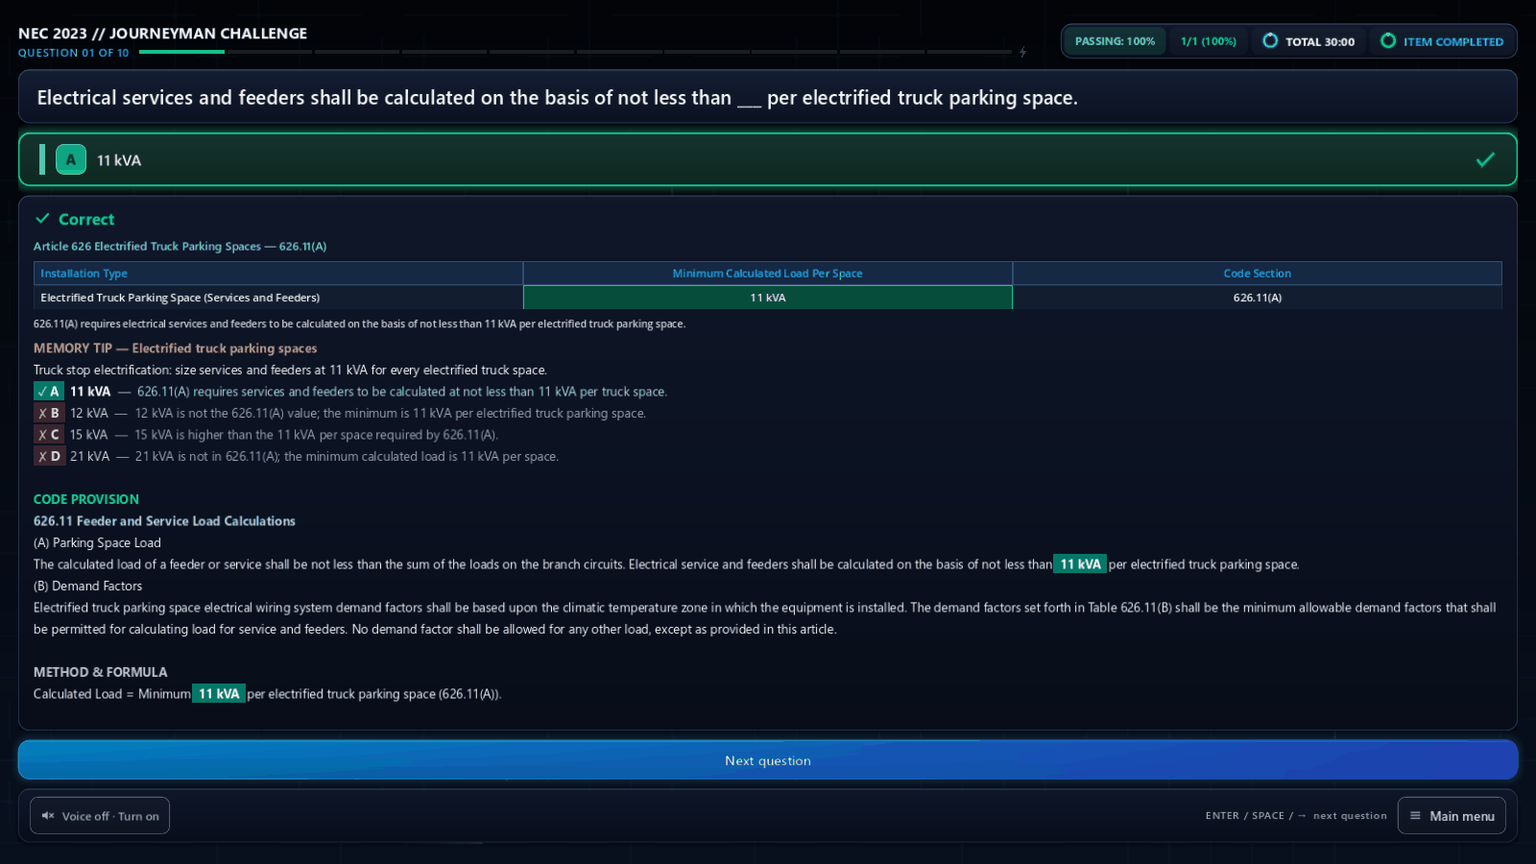
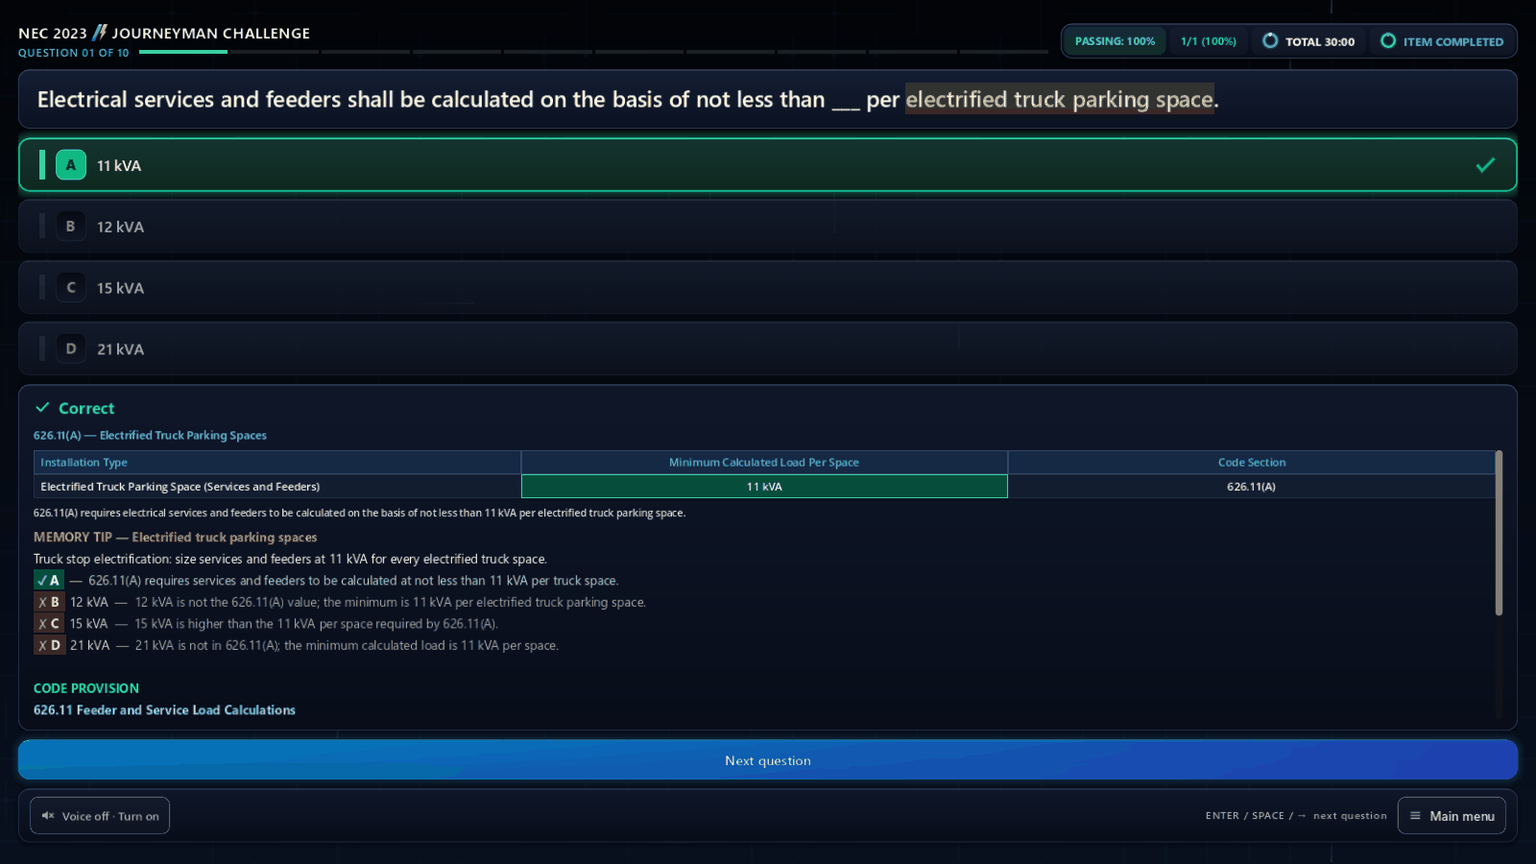
1.0.6: tables hide section numbers before answering; new README screenshots
- Reference tables: before answering, a cell that names a section or table
  number reads "?" (8 questions, e.g. Code Section 626.11(A)); after
  answering it shows as before. test_no_leak sweeps every table.
- README: banner and Slash-Bolt logo at the top, every screenshot retaken
  (menu, question before answering, answered, figure, Full Exam, math
  trainer, Show steps calculator, report, settings, five phone shots),
  answer GIFs re-recorded, hero without "NFPA 70", features and test counts
  brought up to date, DIAGRAM_STYLE.md linked.
- snap_showcase.gd captures the new shots; make_showcase.py uses the mark.
- HUD: streak_label renamed tally_label.
- Docs: SFX_PLAN, KNOWN_ISSUES, DIAGRAMS_AUDIT, tests README touched up.
- Version 1.0.6 (Android code 7); CHANGELOG [1.0.6].

diff --git a/tools/visual/make_showcase.py b/tools/visual/make_showcase.py
@@ -5,7 +5,7 @@
     python tools/visual/make_showcase.py
 
 Reads .audit_tmp/shots/showcase/, writes docs/media/. The answer GIFs are made
-separately: snap_motion.gd -- --answers, then ffmpeg (crop 1280x340, 30 fps).
+separately: snap_motion.gd -- --answers, then ffmpeg (crop 1280x420, 30 fps).
 """
 import json
 from pathlib import Path
@@ -16,6 +16,7 @@ ROOT = Path(__file__).resolve().parents[2]
 SHOTS = ROOT / ".audit_tmp" / "shots" / "showcase"
 OUT = ROOT / "docs" / "media"
 ICON = ROOT / "assets" / "branding" / "icon.png"
+MARK = ROOT / "assets" / "branding" / "mark.png"
 FONTS = Path("C:/Windows/Fonts")
 
 BG_TOP = (2, 4, 8)
@@ -27,14 +28,19 @@ HAIRLINE = (30, 58, 88)
 
 STILLS = {
     "desktop-menu.png": "desk_01_menu.png",
-    "desktop-table-question.png": "desk_02_table_question.png",
+    "desktop-table-question.png": "desk_02b_keyword_pinned.png",
     "desktop-correct.png": "desk_03_table_correct.png",
     "desktop-wrong.png": "desk_06_wrong.png",
     "desktop-diagram.png": "desk_07_diagram_question.png",
     "desktop-simulator.png": "desk_08_simulator.png",
     "desktop-results.png": "desk_09_results.png",
+    "desktop-settings.png": "desk_10_settings.png",
+    "desktop-math-trainer.png": "desk_11_math_trainer.png",
+    "desktop-math-steps.png": "desk_13_math_steps.png",
     "mobile-menu.png": "mob_01_menu.png",
-    "mobile-question.png": "mob_02_table_question.png",
+    "mobile-question.png": "mob_02b_keyword_pinned.png",
+    "mobile-correct.png": "mob_03_table_correct.png",
+    "mobile-math-trainer.png": "mob_11_math_trainer.png",
     "mobile-results.png": "mob_09_results.png",
 }
 
@@ -105,8 +111,11 @@ def hero() -> Image.Image:
     canvas.alpha_composite(icon, (80, 150))
     facts = hero_facts()
     d = ImageDraw.Draw(canvas)
-    d.text((82, 330), f"NFPA 70  •  {facts['edition']}  •  JOURNEYMAN EXAM PREP", font=font("seguisb.ttf", 18), fill=SKY_400)
-    d.text((78, 362), f"{facts['edition']} //", font=font("segoeuib.ttf", 58), fill=(255, 255, 255))
+    d.text((82, 330), f"{facts['edition']}  •  JOURNEYMAN EXAM PREP", font=font("seguisb.ttf", 18), fill=SKY_400)
+    title_font = font("segoeuib.ttf", 58)
+    d.text((78, 362), facts["edition"], font=title_font, fill=(255, 255, 255))
+    mark = Image.open(MARK).convert("RGBA").resize((70, 70), Image.LANCZOS)
+    canvas.alpha_composite(mark, (round(78 + d.textlength(facts["edition"] + " ", font=title_font)), 368))
     d.text((78, 432), "Journeyman", font=font("segoeuib.ttf", 58), fill=(255, 255, 255))
     d.text((78, 502), "Challenge", font=font("segoeuib.ttf", 58), fill=SKY_400)
     body = font("segoeui.ttf", 23)

diff --git a/README.md b/README.md
@@ -1,10 +1,10 @@
 <p align="center">
-  <img width="200" alt="NEC 2023 Journeyman Challenge logo" src="assets/branding/icon.png" />
+  <img src="docs/media/banner.png" alt="NEC 2023 Journeyman Challenge: the Slash-Bolt logo, 598 exam-style questions, a lesson after every answer" width="100%">
 </p>
-<h1 align="center">NEC 2023 Journeyman Challenge</h1>
+<h1 align="center"><img src="assets/branding/icon.png" alt="" width="40" align="center"> NEC 2023 Journeyman Challenge</h1>
 <p align="center">A study app for the <strong>NEC 2023</strong> <strong>journeyman electrician</strong> exam: timed drills, a full exam simulator built on the <strong>Nebraska</strong> exam blueprint, and a lesson after every answer.</p>
 <p align="center">
-  <img src="https://img.shields.io/badge/version-1.0.5-38bdf8" alt="Version 1.0.5">
+  <img src="https://img.shields.io/badge/version-1.0.6-38bdf8" alt="Version 1.0.6">
   <img src="https://img.shields.io/badge/platform-Windows%20x64%20%7C%20Android-0b1221" alt="Platform: Windows x64 | Android">
   <img src="https://img.shields.io/badge/engine-Godot%204.7-478cbf?logo=godotengine&logoColor=white" alt="Engine: Godot 4.7">
   <img src="https://img.shields.io/badge/NEC-2023-f59e0b" alt="NEC 2023">
@@ -19,15 +19,16 @@ Get the latest build from the
 
 | File | Best for | Requirement |
 |---|---|---|
-| [`NEC2023JourneymanChallenge_v1.0.5_Windows.zip`](https://github.com/Gosolceser1/nec-2023-journeyman-challenge/releases/tag/v1.0.5) | Windows PCs | Windows 10/11, 64-bit; no install |
-| [`NEC2023JourneymanChallenge_v1.0.5_Android.apk`](https://github.com/Gosolceser1/nec-2023-journeyman-challenge/releases/tag/v1.0.5) | Android phones and tablets | Allow installs from unknown sources |
+| [`NEC2023JourneymanChallenge_v1.0.6_Windows.zip`](https://github.com/Gosolceser1/nec-2023-journeyman-challenge/releases/tag/v1.0.6) | Windows PCs | Windows 10/11, 64-bit; no install |
+| [`NEC2023JourneymanChallenge_v1.0.6_Android.apk`](https://github.com/Gosolceser1/nec-2023-journeyman-challenge/releases/tag/v1.0.6) | Android phones and tablets | Allow installs from unknown sources |
 
 **Windows:** unzip and run `NEC 2023 Journeyman Challenge.exe`. The app is not
 code-signed, so the first time you open it Windows SmartScreen may show
 "Windows protected your PC": click **More info**, then **Run anyway**.
 
 **Android:** open the APK on the device and allow installs from unknown sources
-if Android asks.
+if Android asks. A new version installs over the old one and keeps your
+progress.
 
 `SHA256SUMS.txt` on the release page lets you check the downloads.
 
@@ -38,6 +39,13 @@ if Android asks.
 - **598 questions:** 594 NEC 2023 questions from 16 practice exams plus 4
   Nebraska State Law questions. Every answer shows the NEC reference, a short
   lesson, a memory tip, why each wrong choice is wrong, and the code provision.
+- **You do the looking up:** the exam is open book, so before you answer the
+  screen shows only the question, one "where to look" line (NEC 2023 ›
+  Chapter › Article), one reference (a table or a figure) and the choices.
+  Nothing on it names the exact section or gives the answer away; the
+  method, the formula and the table notes wait until you answer. After you
+  answer, all four choices stay listed (yours, the right one, the others
+  dimmed) and the explanation says each thing once.
 - **A menu in five tabs:** Home (continue where you left off, a quick
   drill, your weakest area, review missed questions and the Full Journeyman
   Exam), Exams (every practice exam with the questions you have seen and your
@@ -51,20 +59,22 @@ if Android asks.
   readiness.
 - **Weakest-area drill:** 10 questions from the subject area that needs it
   most, picked from your recent answers.
-- **Code-book keywords:** the exam is open book, so before you answer, the
-  words to look up are highlighted in the question. Hover a highlighted word
-  on desktop, or tap it on a phone, and the INDEX line names its Index entry
-  and article; a click or tap keeps it there. Keywords never contain the answer, and
-  the Full Journeyman Exam shows none, like the real test.
+- **Code-book keywords:** before you answer, the words to look up are
+  highlighted in the question. Hover a highlighted word on desktop, or tap it
+  on a phone, and the INDEX line shows what to look up the way the printed
+  Index lists it ("Disconnecting means › services"), never a section number;
+  a click or tap keeps it there. Keywords never contain the answer, and the
+  Full Journeyman Exam shows none, like the real test.
 - **Step-by-step math:** after you answer an exam calculation question (70 of
   them), "Show steps" walks through it one idea at a time: the formula, the
   numbers, the table row, the math, the exact calculator keys, then the
-  answer. In the next release, "Try it on the calculator" lights up each key
-  in turn on an on-screen calculator.
+  answer. "Try it on the calculator" lights up each key in turn on an
+  on-screen calculator.
 - **Math trainer:** endless practice problems in 58 types over 12 topics
   (Ohm's law to motors and dwelling loads) at three levels, with a hint, the
-  steps and a "practice my weak spots" mix. From the next release you answer
-  on a basic calculator like the one allowed in the exam room.
+  steps and a "practice my weak spots" mix. You answer on a basic calculator
+  like the one allowed in the exam room (memory, %, x², √, 1/x), and on a PC
+  the keyboard works too.
 - **Formula cards and table drills:** 17 picture cards (each letter
   explained, units, calculator keys, a worked example) and 17 timed NEC table
   lookup drills with a best run to beat. Math weak spots shows your accuracy
@@ -80,14 +90,17 @@ if Android asks.
   built in on Windows and Android with nothing extra to install (Windows also
   offers the British Ryan). Without a connection the recorded voice takes over.
 - **Reference tables and diagrams** right next to the question, with tables
-  laid out to fit the screen. 346 questions have an original study figure.
-  Figures are reviewed for anything that gives the answer away, and such a
-  spot stays under a "?" until you answer.
+  laid out to fit the screen. 346 questions have an original study figure,
+  drawn to look like the real equipment in one shared style
+  ([docs/DIAGRAM_STYLE.md](docs/DIAGRAM_STYLE.md)). Anything in a figure or
+  table that gives away the answer, a choice, or the section, table or Part
+  number stays under a "?" until you answer, and a test checks every one.
 - **Checked against NEC 2023:** every question's answer, code provision,
   lookup table and calculation was audited against the 2023 code, and all
   598 answers were checked again on 2026-09-30 (see [Accuracy](#accuracy)).
-- **Electrical answer animations and sounds** (with a Reduce motion option),
-  and keyboard shortcuts on desktop (A-D or 1-4, Enter for next).
+- **Electrical answer animations and sounds**, leveled so they stay pleasant
+  for hours, with a Reduce motion option that turns the animations off, and
+  keyboard shortcuts on desktop (A-D or 1-4, Enter for next).
 - **Works offline:** the questions, the voice and the sounds are all inside
   the app. Progress is saved on your device.
 
@@ -101,11 +114,11 @@ if Android asks.
   <tr>
     <td width="50%" align="center">
       <a href="docs/media/desktop-menu.png"><img src="docs/media/desktop-menu.png" alt="Main menu" width="100%"></a><br>
-      <sub>Main menu: exam readiness ring, timed drills, weakest-area drill, Nebraska State Law and the simulator</sub>
+      <sub>Home tab: exam readiness ring, continue, a quick drill, your weakest area, missed-question review and the Full Journeyman Exam</sub>
     </td>
     <td width="50%" align="center">
-      <a href="docs/media/desktop-table-question.png"><img src="docs/media/desktop-table-question.png" alt="Question with a lookup table" width="100%"></a><br>
-      <sub>A question with its lookup table (NEC 626.11, electrified truck parking)</sub>
+      <a href="docs/media/desktop-table-question.png"><img src="docs/media/desktop-table-question.png" alt="Question before answering, with a lookup table" width="100%"></a><br>
+      <sub>Before you answer: the article to open, the keyword's Index entry, and the table with the answer and the section left blank</sub>
     </td>
   </tr>
   <tr>
@@ -115,40 +128,62 @@ if Android asks.
     </td>
     <td width="50%" align="center">
       <a href="docs/media/desktop-wrong.png"><img src="docs/media/desktop-wrong.png" alt="Wrong answer" width="100%"></a><br>
-      <sub>Wrong: the right answer and the NEC table it comes from</sub>
+      <sub>Wrong: your pick in red, the right answer in green, and the figure with its labels revealed</sub>
     </td>
   </tr>
   <tr>
     <td width="50%" align="center">
       <a href="docs/media/desktop-diagram.png"><img src="docs/media/desktop-diagram.png" alt="Diagram question" width="100%"></a><br>
-      <sub>A diagram question (tap the figure to zoom)</sub>
+      <sub>A figure question (tap the figure to zoom)</sub>
     </td>
     <td width="50%" align="center">
-      <a href="docs/media/desktop-simulator.png"><img src="docs/media/desktop-simulator.png" alt="Full Journeyman Simulator in progress" width="100%"></a><br>
-      <sub>The Full Journeyman Simulator: 80 questions, 240 minutes</sub>
+      <a href="docs/media/desktop-simulator.png"><img src="docs/media/desktop-simulator.png" alt="Full Journeyman Exam in progress" width="100%"></a><br>
+      <sub>The Full Journeyman Exam: 80 questions, 240 minutes; the figure keeps its answer spots under "?"</sub>
     </td>
   </tr>
   <tr>
-    <td colspan="2" align="center">
-      <a href="docs/media/desktop-results.png"><img src="docs/media/desktop-results.png" alt="Examination report" width="50%"></a><br>
+    <td width="50%" align="center">
+      <a href="docs/media/desktop-math-trainer.png"><img src="docs/media/desktop-math-trainer.png" alt="Math trainer with its calculator" width="100%"></a><br>
+      <sub>Math trainer: work the problem on a basic exam-room calculator, then Check</sub>
+    </td>
+    <td width="50%" align="center">
+      <a href="docs/media/desktop-math-steps.png"><img src="docs/media/desktop-math-steps.png" alt="Show steps with Try it on the calculator" width="100%"></a><br>
+      <sub>Show steps: "Try it on the calculator" lights the next key to press</sub>
+    </td>
+  </tr>
+  <tr>
+    <td width="50%" align="center">
+      <a href="docs/media/desktop-results.png"><img src="docs/media/desktop-results.png" alt="Examination report" width="100%"></a><br>
       <sub>The report: score gauge, subject-area bars against the 75% line, pace per answer and study feedback</sub>
+    </td>
+    <td width="50%" align="center">
+      <a href="docs/media/desktop-settings.png"><img src="docs/media/desktop-settings.png" alt="Settings" width="100%"></a><br>
+      <sub>Settings: voice mode, sound level, Reduce motion and the keyword highlights</sub>
     </td>
   </tr>
 </table>
 
 <table>
   <tr>
-    <td width="33%" align="center">
+    <td width="20%" align="center">
       <a href="docs/media/mobile-menu.png"><img src="docs/media/mobile-menu.png" alt="Android main menu" width="100%"></a><br>
       <sub>Android: main menu</sub>
     </td>
-    <td width="33%" align="center">
-      <a href="docs/media/mobile-question.png"><img src="docs/media/mobile-question.png" alt="Android question with a lookup table" width="100%"></a><br>
-      <sub>Android: question with a lookup table</sub>
+    <td width="20%" align="center">
+      <a href="docs/media/mobile-question.png"><img src="docs/media/mobile-question.png" alt="Android question before answering" width="100%"></a><br>
+      <sub>Before answering, a keyword tapped</sub>
     </td>
-    <td width="33%" align="center">
+    <td width="20%" align="center">
+      <a href="docs/media/mobile-correct.png"><img src="docs/media/mobile-correct.png" alt="Android answered question" width="100%"></a><br>
+      <sub>After answering</sub>
+    </td>
+    <td width="20%" align="center">
+      <a href="docs/media/mobile-math-trainer.png"><img src="docs/media/mobile-math-trainer.png" alt="Android math trainer" width="100%"></a><br>
+      <sub>Math trainer</sub>
+    </td>
+    <td width="20%" align="center">
       <a href="docs/media/mobile-results.png"><img src="docs/media/mobile-results.png" alt="Android examination report" width="100%"></a><br>
-      <sub>Android: examination report</sub>
+      <sub>Examination report</sub>
     </td>
   </tr>
 </table>
@@ -239,7 +274,12 @@ python tools/pipeline/validate_question_bank.py --no-warn   # bank schema, spoil
 python tools/pipeline/check_requirements.py                 # every table/calc question keeps its table, formula and recomputed result
 ```
 
-`GODOT` and `PYTHON` override the binaries verify.sh uses.
+`GODOT` and `PYTHON` override the binaries verify.sh uses. A full run is about
+161,000 Godot checks in 43 suites (mostly whole-bank sweeps in both layouts,
+including the no-answer-leak guard), the scene harness in both layouts, 153
+Python tests and the question-bank validator; with the voice bundle present it
+also checks that every question and math step has its clip
+([tools/tests/README.md](tools/tests/README.md)).
 
 ## Export
 
@@ -269,7 +309,9 @@ signing, the shareable zip and checksums.
   cards, table drills and weak spots
 - `docs/VOICE_READING_RULES.md`: how questions are spoken
 - `docs/ANDROID_VOICES.md`: the Android voice list, names and the Edge voices
-- `docs/SFX_PLAN.md`: which moments get a sound
+- `docs/SFX_PLAN.md`: which moments get a sound, and the motion that goes with it
+- [`docs/DIAGRAM_STYLE.md`](docs/DIAGRAM_STYLE.md): how the study figures are drawn
+  (equipment, labels, the "?" masks)
 - `docs/CONTENT_AUDIT_2023.md`, `docs/TABLES_FORMULAS_AUDIT.md`,
   `docs/LOCATION_AUDIT.md`, `docs/DIAGRAMS_AUDIT.md`: the NEC 2023 audits
 - `docs/TYPO_FIXES.md`: every stem and choice correction against the PDFs

diff --git a/tools/tests/README.md b/tools/tests/README.md
@@ -38,7 +38,7 @@ one as a child Godot process and reads its exit code. Slower than an in-process
 runner, but it exercises exactly the path a developer runs by hand, and one
 suite's failure cannot abort the rest.
 
-**Current status: about 150,800 Godot checks across 41 suites, 150 Python tests in 14 modules (listed in `tools/verify.sh`), 1 build-guard shell test, 0 documented product defects.** Most of the checks are whole-bank sweeps (every record, both layouts) and the math engine's generated problems. The scene harness runs on top of these in both layouts. The desktop Edge suite needs a clip from the gitignored `assets/speech/` bundle; on a fresh clone it prints `SKIPPED` and passes with 0 checks.
+**Current status: about 161,000 Godot checks across 43 suites, 153 Python tests in 14 modules (listed in `tools/verify.sh`), 1 build-guard shell test, 0 documented product defects.** Most of the checks are whole-bank sweeps (every record, both layouts) and the math engine's generated problems. The scene harness runs on top of these in both layouts. The desktop Edge suite needs a clip from the gitignored `assets/speech/` bundle; on a fresh clone it prints `SKIPPED` and passes with 0 checks.
 
 Every formerly pinned defect is fixed and promoted to a real assertion, so a
 regression fails its suite rather than appearing in the defect list. The test table prefix case is covered directly: `NOTED: x` must remain unchanged.
@@ -104,7 +104,7 @@ regression fails its suite rather than appearing in the defect list. The test ta
 
 ## What IS covered
 
-**The no-answer-leak guarantee** (`test_no_leak.gd`, 235 checks) — the highest-value
+**The no-answer-leak guarantee** (`test_no_leak.gd`, 262 checks) — the highest-value
 part of the suite:
 
 - `redact_answer_spans` as a table of `(text, answer) -> expected` cases, covering
@@ -125,6 +125,10 @@ part of the suite:
   `lookup_summary`, `article`, `article_title`) and assert the answer is then
   unfindable. Also asserts the reverse: every record's `lesson_lines` DO state the
   answer, so the teardown can actually teach it.
+- Every pre-answer study figure and every reference table: no visible label or
+  cell names a section, table or Part number (tables go through
+  `TableViewer.pre_answer_text`, which shows "?"), and no figure label shows a
+  choice.
 
 **TTS readability** (`test_speech_text.gd`, 470 checks) — `speakable()` is
 asserted against exact output for inches, feet, mixed numbers and fractions

diff --git a/docs/KNOWN_ISSUES.md b/docs/KNOWN_ISSUES.md
@@ -9,9 +9,10 @@ Python and the NEC location audit, and for 1.0.4 the NEC 2023 content and
 tables/formulas audits, the diagram "?" masks and the `measure_fit.gd`
 crashes at mobile 1024x768 and desktop 540x960 (a `DiagramView` resize loop
 with the page scrollbar, docs/DIAGRAMS_AUDIT.md section 5), for 1.0.5 the
-figure and FORMULA-strip answer leaks, and since 1.0.5 (unreleased) the keyword hover and
-tap and the NEC 2023 answer re-check (docs/audits/UPCODES_ANSWER_CHECK.md),
-each pinned by a test or a validator guard.
+figure and FORMULA-strip answer leaks, and for 1.0.6 the keyword hover and
+tap, the NEC 2023 answer re-check (docs/audits/UPCODES_ANSWER_CHECK.md) and
+the section numbers in figures and reference tables before answering, each
+pinned by a test or a validator guard.
 
 ## Open: needs a real device
 
@@ -51,12 +52,12 @@ each pinned by a test or a validator guard.
   data, a question heard once replays in airplane mode, and in airplane mode an
   unheard question falls back to the recorded Andrew at once with the status
   line saying "no internet".
-- **1.0.5 and newer (unreleased) phone features were verified on desktop only.**
+- **1.0.5 and 1.0.6 phone features were verified on desktop only.**
   `test_hunt_keyword_input` pushes finger taps through the viewport and
   `test_math_ui` walks every math screen at phone sizes, but no phone was
   used. On a phone
   confirm: tapping a highlighted keyword shows just its Index entry and a
-  second tap brings back the full line; the five menu tabs fit; Show steps
+  second tap brings back the resting prompt; the five menu tabs fit; Show steps
   with Read, Voice off and Auto-read; "Try it on the calculator" lights the
   next key; the Math Trainer calculator answers with Check.
 - **The Edge read-aloud endpoint is unofficial.** `EdgeTtsClient` copies

diff --git a/docs/SFX_PLAN.md b/docs/SFX_PLAN.md
@@ -66,7 +66,7 @@ and only the result sound plays).
 | Next-question keys and the Listen loop advancing | Plays 80× in a full simulator; the voice reading the next question is the cue. |
 | Per-second countdown ticks | Nagging and stressful; replaced by the two exam-clock warnings. |
 | Per-item clock warnings | The item clock restarts every question: a cue there would fire constantly. The pulse and red color are enough. |
-| Streaks | It's a practice test, not a game: no streak cue, no rising pitch, no streak badge. |
+| Runs of right answers | It's a practice test, not a game: every right answer gets the same cue at the same pitch. |
 | Confetti sparkle | Doubles the pass sound; one result sound is enough. |
 | Listen mode answers | Ungraded, and the voice is about to read the answer. |
 
@@ -139,5 +139,5 @@ with the cue, lasts at most ~0.6 s and never delays grading or the layout.
 | 200–560 ms | | The right card, only now: its check draws in and a softer current runs around it |
 
 Every right answer gets the same cue at the same pitch and the same
-animation: there is no streak (a practice test, not a game). Reduce motion (Settings, or the system setting until changed there) shows the
+animation. Reduce motion (Settings, or the system setting until changed there) shows the
 final icons only; the sounds still play.

diff --git a/docs/RELEASE.md b/docs/RELEASE.md
@@ -1,7 +1,7 @@
 # Release
 
 How to build the shareable Windows zip and Android APK. Everything lands in
-`release/` (gitignored). Version 1.0.0 was the first release; 1.0.5 is current (CHANGELOG.md).
+`release/` (gitignored). Version 1.0.0 was the first release; 1.0.6 is current (CHANGELOG.md).
 
 ## What a recipient gets
 
@@ -81,7 +81,7 @@ Copy-Item "$real\editor_settings-4.7.tres" "$env:APPDATA\Godot\"
    ```powershell
    & $env:GODOT --headless --path . --import
    & $env:GODOT --headless --path . --export-release "Windows Desktop" "release/windows/NEC 2023 Journeyman Challenge.exe"
-   & $env:GODOT --headless --path . --export-release "Android Release" "release/android/NEC2023JourneymanChallenge_v1.0.5_Android.apk"
+   & $env:GODOT --headless --path . --export-release "Android Release" "release/android/NEC2023JourneymanChallenge_v1.0.6_Android.apk"
    ```
 
    Godot does not create output folders, so on a fresh clone run

diff --git a/CHANGELOG.md b/CHANGELOG.md
@@ -1,6 +1,6 @@
 # Changelog
 
-## [Unreleased]
+## [1.0.6] - 2026-10-03
 
 ### Added
 
@@ -106,6 +106,11 @@
   until you answer; then it shows. The "?" boxes are tidier: none sit on top
   of each other any more (there were 145 overlaps), and harmless labels such
   as "480 V" stay visible.
+- **Reference tables don't say where the answer is either.** Before you
+  answer, a table cell that names a section or table number reads "?"
+  ("Table ? location", Code Section "?") on the 8 questions that had one,
+  such as the truck parking table that showed "626.11(A)". After you answer
+  the table shows them as before. A test checks every table.
 - Two disposer-cord questions cited "422.16(B)(1)(1)"; they now cite
   422.16(B)(1).
 - **Hover tips are readable.** They were Godot's default: a see-through,

diff --git a/docs/DIAGRAMS_AUDIT.md b/docs/DIAGRAMS_AUDIT.md
@@ -583,8 +583,9 @@ The `open-book-exam-#7-024` gist mentions "high leg" (weak).
 
 The 88 figures, the masks and the phone strip shipped in 1.0.4. For 1.0.5:
 the three required figures are redrawn, the second accuracy review is done
-and the leaks above are masked. Still open: the two FORMULA / METHOD strips
-above (question bank) and the stem wording flagged in section 6.
+and the leaks above are masked. Since 1.0.6 the FORMULA / METHOD strip and
+the gist line wait until the answer, which closes the two strips above. Still
+open: the stem wording flagged in section 6.
 
 ## 8. Batch 1 from the gap scan (72 more questions)
 
